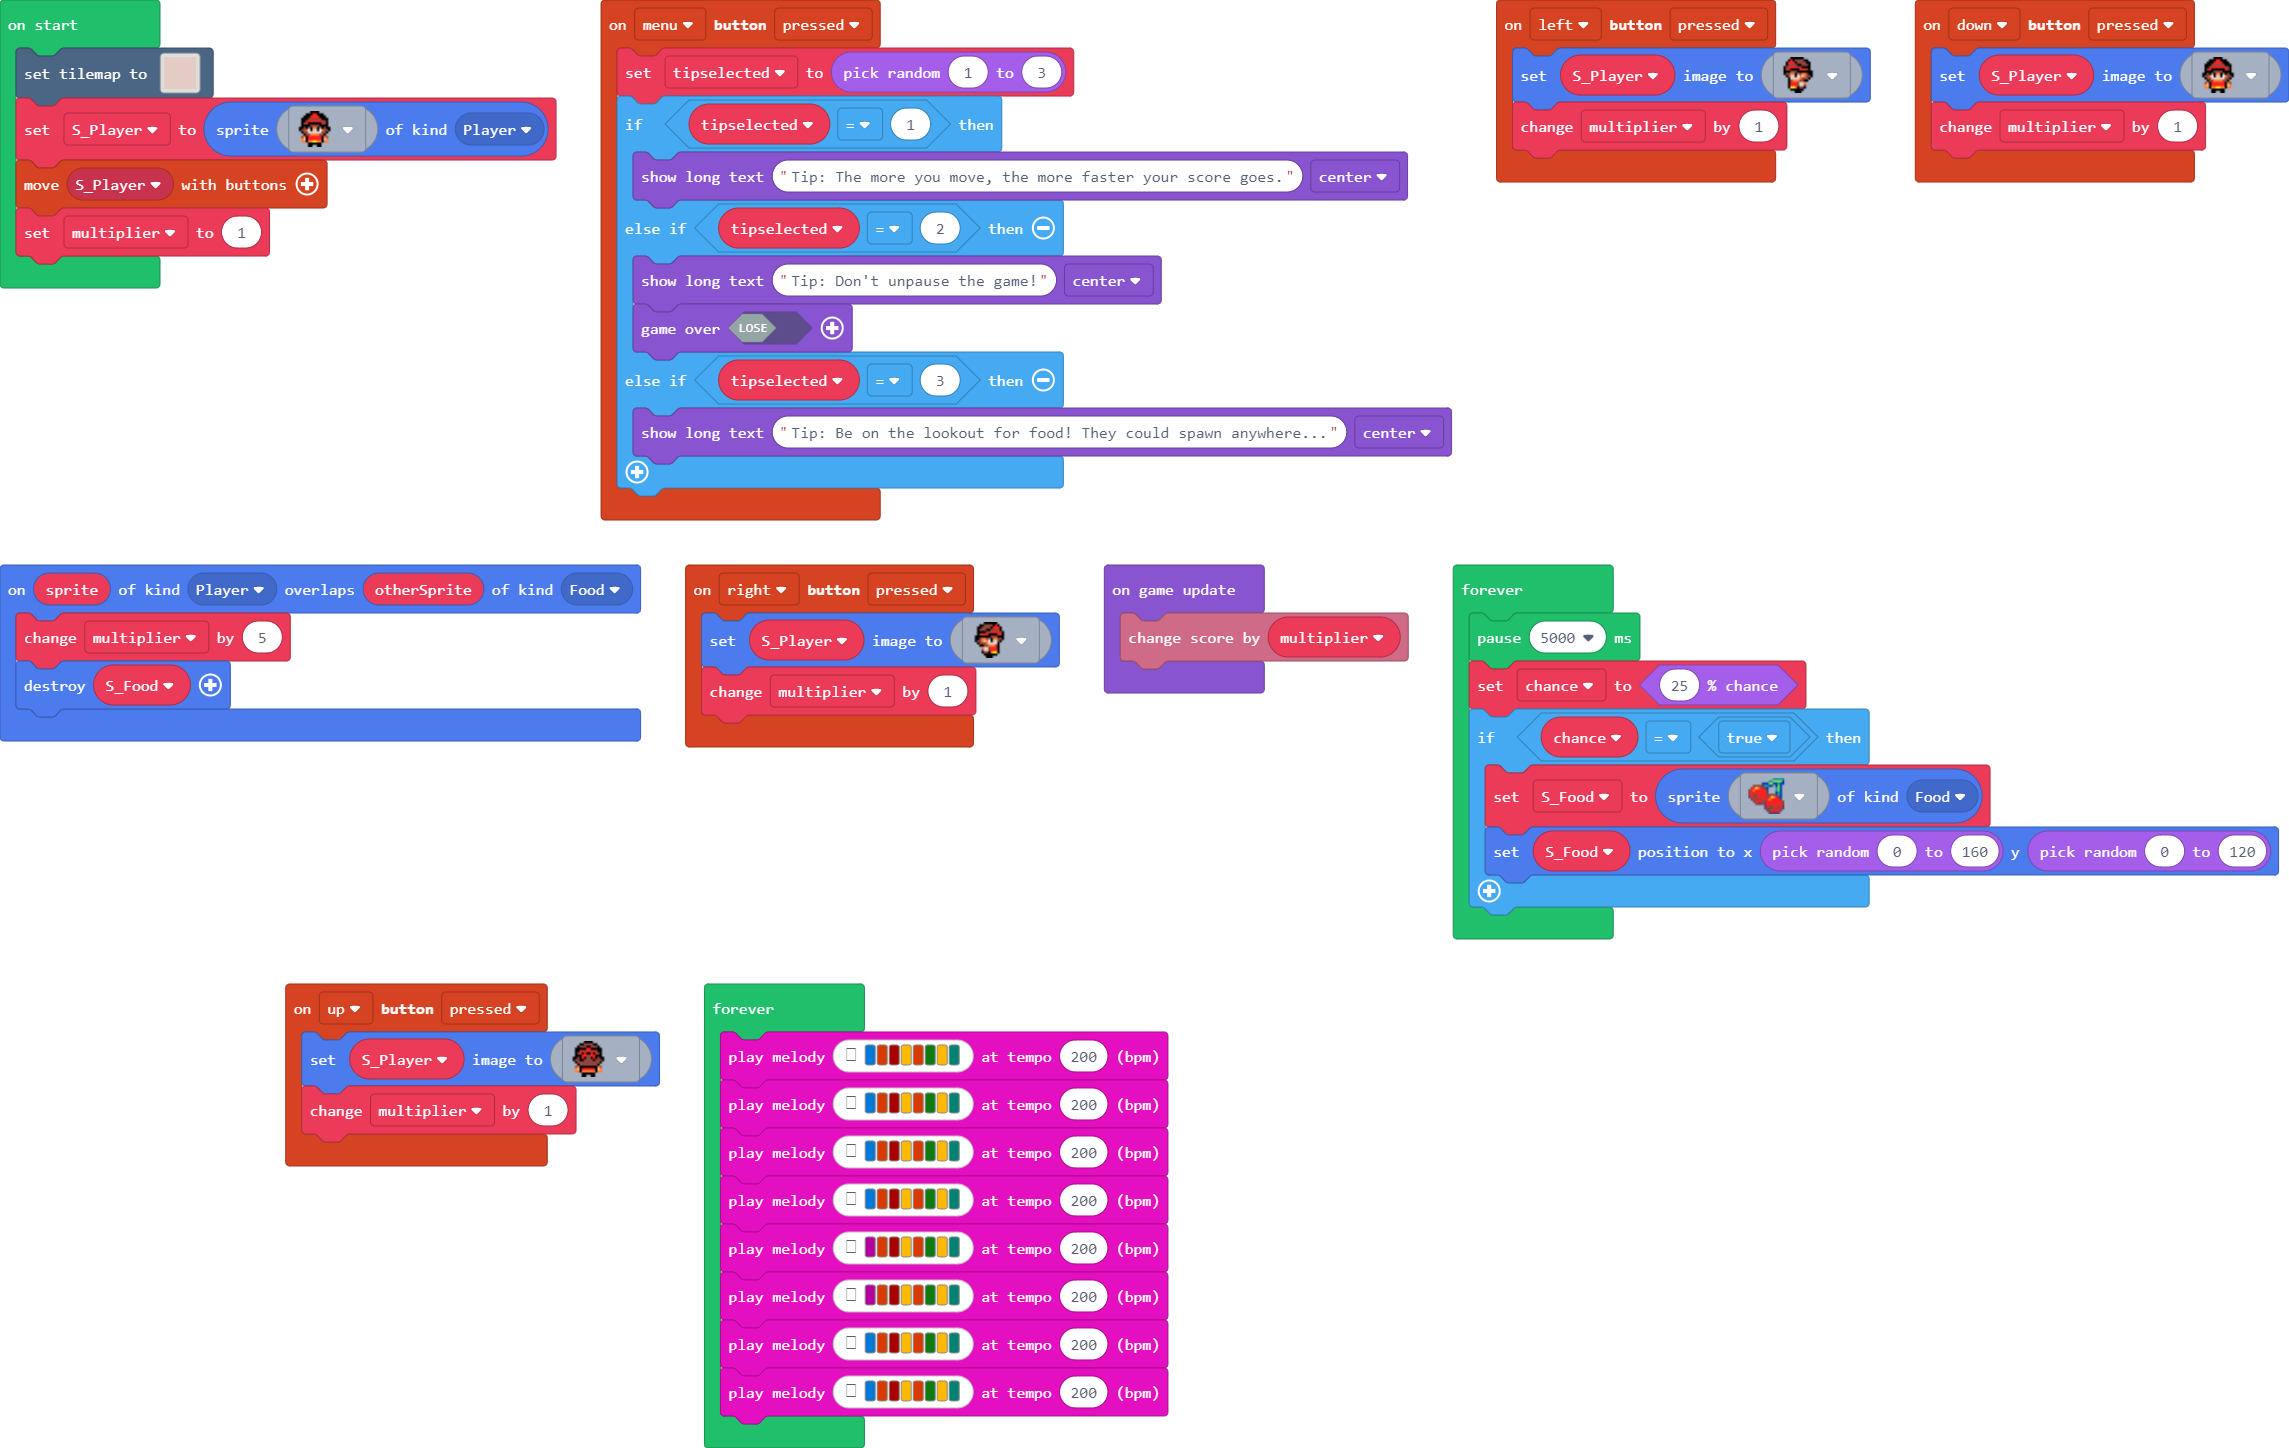
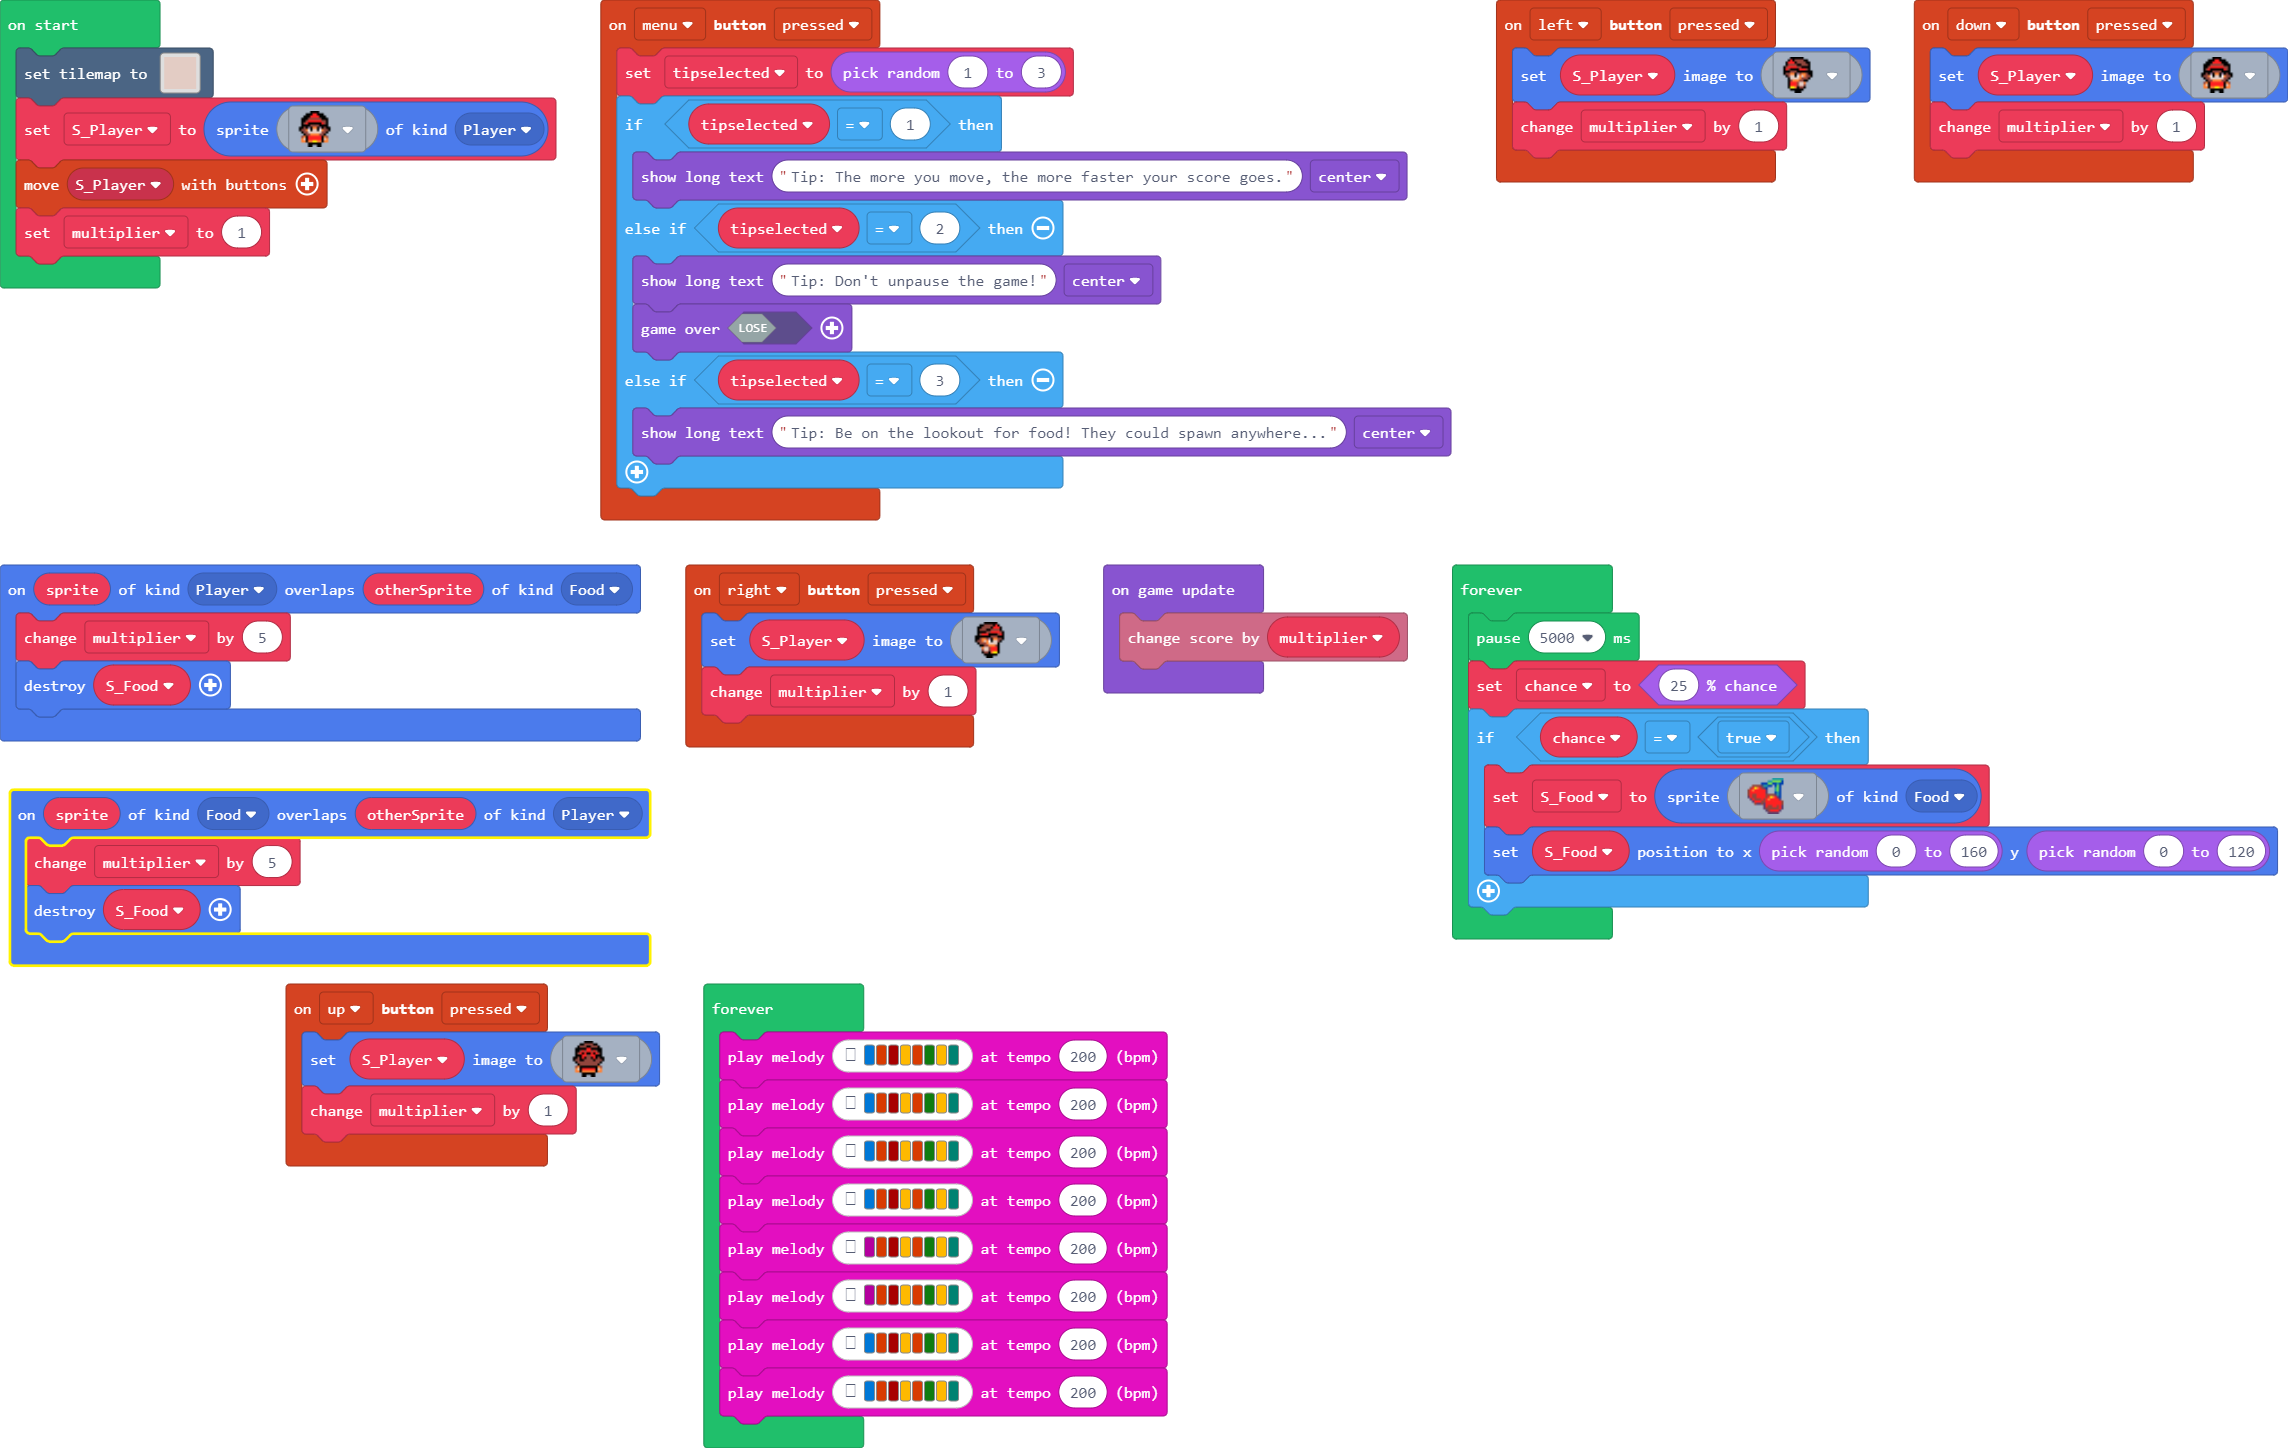
Update main.blocks, main.ts

diff --git a/main.ts b/main.ts
@@ -49,6 +49,10 @@ controller.menu.onEvent(ControllerButtonEvent.Pressed, function () {
         game.showLongText("Tip: Be on the lookout for food! They could spawn anywhere...", DialogLayout.Center)
     }
 })
+sprites.onOverlap(SpriteKind.Food, SpriteKind.Player, function (sprite, otherSprite) {
+    multiplier += 5
+    S_Food.destroy()
+})
 controller.left.onEvent(ControllerButtonEvent.Pressed, function () {
     S_Player.setImage(sprites.castle.heroWalkSideLeft1)
     multiplier += 1
